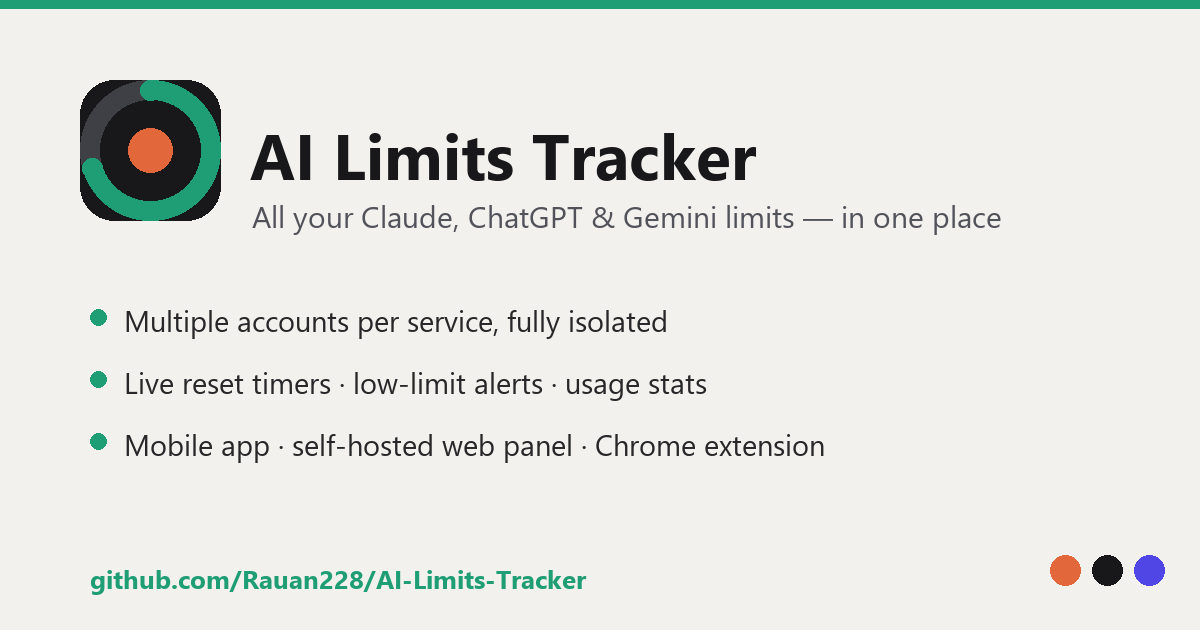
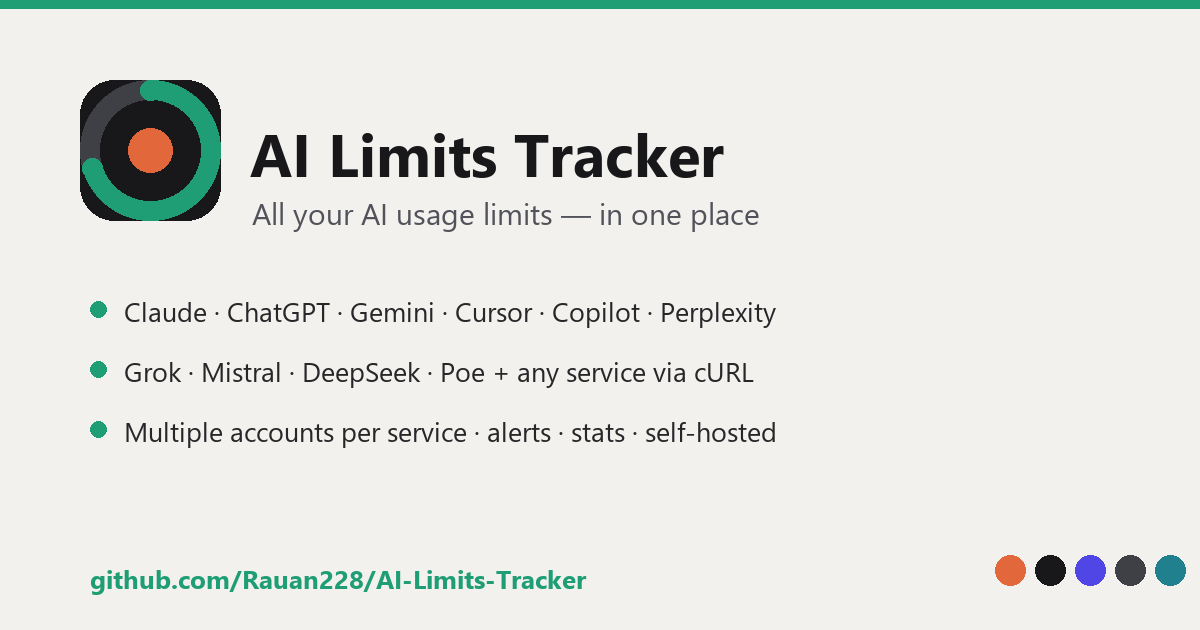
Landing: cover all 11 supported services + Custom
Update hero, provider pills, a new Supported services section, FAQ, meta
tags, JSON-LD, llms.txt and the OG image to reflect Cursor, Copilot,
Perplexity, Grok, Mistral, DeepSeek, Poe and the cURL-based Custom provider.
Adds SEO keywords for the new services.

diff --git a/landing/index.html b/landing/index.html
@@ -3,9 +3,9 @@
 <head>
 <meta charset="utf-8" />
 <meta name="viewport" content="width=device-width, initial-scale=1" />
-<title>AI Limits Tracker — Track Claude, ChatGPT & Gemini usage limits (multiple accounts)</title>
-<meta name="description" content="Open-source tracker for the usage limits of all your Claude, ChatGPT and Gemini accounts in one place — including several accounts of the same service. Live reset timers, low-limit alerts and usage stats. Mobile app, self-hosted web panel and Chrome extension. Private: tokens never leave your device." />
-<meta name="keywords" content="Claude usage limit tracker, track Claude limits, multiple Claude accounts, ChatGPT limit tracker, Claude rate limit, Claude Max 5 hour limit, ChatGPT Codex usage, Gemini usage limits, AI usage tracker, monitor AI subscription limits" />
+<title>AI Limits Tracker — track Claude, ChatGPT, Cursor, Copilot & 10+ AI usage limits (multiple accounts)</title>
+<meta name="description" content="Open-source tracker for the usage limits of all your AI accounts in one place — Claude, ChatGPT, Gemini, Cursor, GitHub Copilot, Perplexity, Grok, Mistral, DeepSeek, Poe, or any service via cURL — including several accounts of the same service. Live reset timers, low-limit alerts and usage stats. Mobile app, self-hosted web panel and Chrome extension. Private: tokens never leave your device." />
+<meta name="keywords" content="AI usage limit tracker, Claude usage limit tracker, track Claude limits, multiple Claude accounts, ChatGPT limit tracker, Cursor usage tracker, GitHub Copilot premium requests tracker, Perplexity Pro limit, Grok rate limit, Mistral usage, DeepSeek limit, Poe compute points, Claude Max 5 hour limit, ChatGPT Codex usage, Gemini usage limits, monitor AI subscription limits" />
 <link rel="canonical" href="https://rauan228.github.io/AI-Limits-Tracker/" />
 <meta name="robots" content="index, follow" />
 <meta name="author" content="Rauan" />
@@ -13,15 +13,15 @@
 
 <meta property="og:type" content="website" />
 <meta property="og:site_name" content="AI Limits Tracker" />
-<meta property="og:title" content="AI Limits Tracker — all your Claude, ChatGPT & Gemini limits in one place" />
-<meta property="og:description" content="Track the usage limits of several Claude, ChatGPT and Gemini accounts at once. Live reset timers, alerts and stats. Mobile app, self-hosted web panel and Chrome extension. Open source." />
+<meta property="og:title" content="AI Limits Tracker — all your AI usage limits in one place" />
+<meta property="og:description" content="Track the usage limits of Claude, ChatGPT, Gemini, Cursor, Copilot, Perplexity, Grok and more — several accounts per service at once. Live reset timers, alerts and stats. Mobile app, self-hosted web panel and Chrome extension. Open source." />
 <meta property="og:url" content="https://rauan228.github.io/AI-Limits-Tracker/" />
 <meta property="og:image" content="https://rauan228.github.io/AI-Limits-Tracker/og-image.png" />
 <meta property="og:image:width" content="1200" />
 <meta property="og:image:height" content="630" />
 <meta name="twitter:card" content="summary_large_image" />
-<meta name="twitter:title" content="AI Limits Tracker — Claude, ChatGPT & Gemini usage limits, multiple accounts" />
-<meta name="twitter:description" content="Open-source tracker for the limits of all your AI accounts in one place. Mobile app, web panel and Chrome extension." />
+<meta name="twitter:title" content="AI Limits Tracker — Claude, ChatGPT, Cursor, Copilot & more, multiple accounts" />
+<meta name="twitter:description" content="Open-source tracker for the limits of all your AI accounts in one place — 10+ services and any other via cURL. Mobile app, web panel and Chrome extension." />
 <meta name="twitter:image" content="https://rauan228.github.io/AI-Limits-Tracker/og-image.png" />
 
 <link rel="icon" href="favicon.png" type="image/png" />
@@ -37,7 +37,7 @@
   "name": "AI Limits Tracker",
   "operatingSystem": "iOS, Android, Web, Chrome",
   "applicationCategory": "DeveloperApplication",
-  "description": "Open-source tracker for the usage limits of all your Claude, ChatGPT and Gemini accounts in one place, including several accounts of the same service. Live reset timers, low-limit alerts and usage statistics.",
+  "description": "Open-source tracker for the usage limits of all your AI accounts in one place — Claude, ChatGPT, Gemini, Cursor, GitHub Copilot, Perplexity, Grok, Mistral, DeepSeek, Poe, or any service via cURL — including several accounts of the same service. Live reset timers, low-limit alerts and usage statistics.",
   "url": "https://rauan228.github.io/AI-Limits-Tracker/",
   "downloadUrl": "https://github.com/Rauan228/AI-Limits-Tracker",
   "softwareVersion": "1.0.0",
@@ -45,7 +45,8 @@
   "author": { "@type": "Person", "name": "Rauan", "url": "https://github.com/Rauan228" },
   "offers": { "@type": "Offer", "price": "0", "priceCurrency": "USD" },
   "featureList": [
-    "Track multiple Claude, ChatGPT and Gemini accounts at once",
+    "Track Claude, ChatGPT, Gemini, Cursor, GitHub Copilot, Perplexity, Grok, Mistral, DeepSeek and Poe",
+    "Add any other service via a pasted cURL (fields auto-detected)",
     "Several accounts of the same service, fully isolated",
     "Live limit reset countdown timers",
     "Low-limit, exhausted and re-login alerts",
@@ -59,8 +60,10 @@
   "@context": "https://schema.org",
   "@type": "FAQPage",
   "mainEntity": [
+    { "@type": "Question", "name": "Which AI services does it support?",
+      "acceptedAnswer": { "@type": "Answer", "text": "Claude, ChatGPT, Gemini, Cursor, GitHub Copilot, Perplexity, Grok, Mistral, DeepSeek and Poe out of the box, plus a Custom option that adds any other service: you paste a cURL of the request that returns your usage and the app auto-detects the percentage used and the reset time." } },
     { "@type": "Question", "name": "Can I track multiple Claude accounts at once?",
-      "acceptedAnswer": { "@type": "Answer", "text": "Yes. AI Limits Tracker is built for the multi-account case. You can add any number of Claude accounts (and ChatGPT and Gemini) and each one is fully isolated with its own credentials, token refresh and history, so two Claude accounts show two different numbers side by side." } },
+      "acceptedAnswer": { "@type": "Answer", "text": "Yes. AI Limits Tracker is built for the multi-account case. You can add any number of Claude accounts (and ChatGPT, Cursor, Copilot and the rest) and each one is fully isolated with its own credentials, token refresh and history, so two Claude accounts show two different numbers side by side." } },
     { "@type": "Question", "name": "How do I track my ChatGPT and Claude usage limits in one place?",
       "acceptedAnswer": { "@type": "Answer", "text": "Install AI Limits Tracker as a mobile app, a self-hosted web panel you can add to your phone's home screen, or a Chrome extension. It shows Claude's 5-hour and weekly windows, ChatGPT's Codex limits and Gemini's quotas on a single screen with live reset timers." } },
     { "@type": "Question", "name": "Is it safe? Where are my credentials stored?",
@@ -126,6 +129,12 @@
   .final h2{font-size:clamp(26px,4vw,38px);letter-spacing:-1px;margin-bottom:14px}
   .final p{color:#a1a1aa;margin-bottom:26px;max-width:520px;margin-left:auto;margin-right:auto}
   .final .btn{background:#fff;color:var(--ink)}
+  .svc-grid{display:grid;grid-template-columns:repeat(auto-fit,minmax(230px,1fr));gap:12px}
+  .svc{display:flex;align-items:center;gap:12px;background:var(--card);border:1px solid var(--border);border-radius:16px;padding:16px}
+  .svc-custom{border-style:dashed}
+  .svc-dot{width:38px;height:38px;border-radius:11px;flex:none;display:grid;place-items:center;color:#fff;font-weight:800;font-size:17px}
+  .svc b{display:block;font-size:15px}
+  .svc small{color:var(--muted);font-size:12.5px}
 </style>
 </head>
 <body>
@@ -133,6 +142,7 @@
   <a class="brand" href="/AI-Limits-Tracker/"><img src="favicon.png" alt="AI Limits Tracker logo" /> AI Limits</a>
   <nav class="nav-links">
     <a href="#features">Features</a>
+    <a href="#services">Services</a>
     <a href="#how">How it works</a>
     <a href="#faq">FAQ</a>
     <a class="btn" href="https://github.com/Rauan228/AI-Limits-Tracker">★ GitHub</a>
@@ -142,8 +152,8 @@
 <main>
 <section class="hero wrap">
   <span class="pill"><i></i> Open source · MIT · self-hosted</span>
-  <h1>All your <span class="accent">Claude, ChatGPT &amp; Gemini</span><br />limits in one place</h1>
-  <p class="lead">Track the usage limits of every AI account you own — including <strong>several accounts of the same service</strong> — with live reset timers, low-limit alerts and real usage stats. Your tokens never leave your own device.</p>
+  <h1>All your <span class="accent">AI usage limits</span><br />in one place</h1>
+  <p class="lead">Track the limits of every AI account you own — Claude, ChatGPT, Cursor, Copilot and more, <strong>including several accounts of the same service</strong> — with live reset timers, low-limit alerts and real usage stats. Your tokens never leave your own device.</p>
   <div class="cta">
     <a class="btn" href="https://github.com/Rauan228/AI-Limits-Tracker">★ Star on GitHub</a>
     <a class="btn ghost" href="#how">Self-host in 2 minutes</a>
@@ -152,6 +162,11 @@
     <span class="prov"><b style="background:#e2683c"></b> Claude</span>
     <span class="prov"><b style="background:#18181b"></b> ChatGPT</span>
     <span class="prov"><b style="background:#4f46e5"></b> Gemini</span>
+    <span class="prov"><b style="background:#3f3f46"></b> Cursor</span>
+    <span class="prov"><b style="background:#1f6feb"></b> Copilot</span>
+    <span class="prov"><b style="background:#20808d"></b> Perplexity</span>
+    <span class="prov"><b style="background:#fa520f"></b> Mistral</span>
+    <span class="prov"><b style="background:#8b5cf6"></b> + any via cURL</span>
   </div>
 </section>
 
@@ -159,12 +174,30 @@
   <h2 class="sec-title">Built for people with more than one AI account</h2>
   <p class="sec-sub">Every other tracker assumes one account per service. This one doesn't — two Claude accounts, two ChatGPT accounts, all on one screen.</p>
   <div class="grid">
-    <div class="card"><div class="ic">👥</div><h3>Multiple accounts, isolated</h3><p>Add any number of Claude, ChatGPT or Gemini accounts. Each keeps its own credentials, token refresh and history — no mixing, no logging in and out.</p></div>
+    <div class="card"><div class="ic">👥</div><h3>Multiple accounts, isolated</h3><p>Add any number of accounts across any service. Each keeps its own credentials, token refresh and history — no mixing, no logging in and out.</p></div>
     <div class="card"><div class="ic">⏱</div><h3>Live reset timers</h3><p>See exactly when each 5-hour and weekly window resets, counting down in real time. Never get surprised by a wall mid-task again.</p></div>
     <div class="card"><div class="ic">📊</div><h3>Honest usage stats</h3><p>Day streaks, limit hits, time in the red zone, burn-rate forecast and busiest hours — all from real measurements. No invented message counts.</p></div>
     <div class="card"><div class="ic">🔔</div><h3>Low-limit alerts</h3><p>Get notified at 20%, 10% and 0% remaining, on restore, and when a session needs re-login. Optional Telegram push from the server.</p></div>
     <div class="card"><div class="ic">🔒</div><h3>Private by design</h3><p>Tokens live only in your device's Keychain/Keystore or your own encrypted server. Requests go straight to the AI providers — no third-party backend.</p></div>
     <div class="card"><div class="ic">📱</div><h3>Install anywhere</h3><p>A mobile app, a self-hosted web panel you add to your home screen like a native app, and a Chrome extension for a glance from the toolbar.</p></div>
+  </div>
+</section>
+
+<section id="services" class="wrap">
+  <h2 class="sec-title">Supported services</h2>
+  <p class="sec-sub">Ten services out of the box — and a Custom option that adds any other by pasting a cURL, with the usage fields detected automatically.</p>
+  <div class="svc-grid">
+    <div class="svc"><span class="svc-dot" style="background:#e2683c">C</span><div><b>Claude</b><small>5h · weekly · Opus/Sonnet · spend</small></div></div>
+    <div class="svc"><span class="svc-dot" style="background:#18181b">C</span><div><b>ChatGPT</b><small>Codex 5h &amp; weekly · credits</small></div></div>
+    <div class="svc"><span class="svc-dot" style="background:#4f46e5">G</span><div><b>Gemini</b><small>session &amp; weekly</small></div></div>
+    <div class="svc"><span class="svc-dot" style="background:#3f3f46">C</span><div><b>Cursor</b><small>premium (fast) requests</small></div></div>
+    <div class="svc"><span class="svc-dot" style="background:#1f6feb">C</span><div><b>GitHub Copilot</b><small>premium requests / month</small></div></div>
+    <div class="svc"><span class="svc-dot" style="background:#20808d">P</span><div><b>Perplexity</b><small>Pro searches</small></div></div>
+    <div class="svc"><span class="svc-dot" style="background:#27272a">G</span><div><b>Grok</b><small>request window</small></div></div>
+    <div class="svc"><span class="svc-dot" style="background:#fa520f">M</span><div><b>Mistral</b><small>Le Chat</small></div></div>
+    <div class="svc"><span class="svc-dot" style="background:#4d6bfe">D</span><div><b>DeepSeek</b><small>account limits</small></div></div>
+    <div class="svc"><span class="svc-dot" style="background:#5d3fd3">P</span><div><b>Poe</b><small>compute points</small></div></div>
+    <div class="svc svc-custom"><span class="svc-dot" style="background:#8b5cf6">+</span><div><b>Any other service</b><small>paste a cURL — fields auto-detected</small></div></div>
   </div>
 </section>
 
@@ -196,8 +229,9 @@ WEB_DIR=web/dist DATA_DIR=./data node server/dist/server.mjs
 <section id="faq" class="wrap">
   <h2 class="sec-title">Frequently asked questions</h2>
   <div class="faq">
-    <details open><summary>Can I track multiple Claude accounts at once?</summary><p>Yes — that's the whole point. Add any number of Claude accounts (and ChatGPT and Gemini). Each is fully isolated with its own credentials, token refresh and history, so two Claude accounts show two different numbers side by side.</p></details>
-    <details><summary>How do I see my Claude and ChatGPT limits in one place?</summary><p>Install the mobile app, the self-hosted web panel (which you can add to your phone's home screen), or the Chrome extension. It shows Claude's 5-hour and weekly windows, ChatGPT's Codex limits and Gemini's quotas on a single screen with live reset timers.</p></details>
+    <details open><summary>Which AI services does it support?</summary><p>Claude, ChatGPT, Gemini, Cursor, GitHub Copilot, Perplexity, Grok, Mistral, DeepSeek and Poe out of the box — plus a Custom option that adds any other service: paste a cURL of the request that returns your usage and the app auto-detects the percentage used and the reset time.</p></details>
+    <details><summary>Can I track multiple Claude (or Cursor, or ChatGPT) accounts at once?</summary><p>Yes — that's the whole point. Add any number of accounts across any service. Each is fully isolated with its own credentials, token refresh and history, so two accounts of the same service show two different numbers side by side.</p></details>
+    <details><summary>How do I see all my AI limits in one place?</summary><p>Install the mobile app, the self-hosted web panel (which you can add to your phone's home screen), or the Chrome extension. It shows each service's windows — Claude's 5-hour and weekly, ChatGPT's Codex limits, Cursor's premium requests, and so on — on a single screen with live reset timers.</p></details>
     <details><summary>Is it safe? Where are my credentials stored?</summary><p>They never leave your own device or server. On mobile they're in the iOS Keychain / Android Keystore; on the server they're AES-256-GCM encrypted. Requests go straight to Anthropic, OpenAI and Google — there's no third-party backend. The tool only reads your usage, it never generates anything, so it adds no load to your quota.</p></details>
     <details><summary>Is it really free and open source?</summary><p>Yes. MIT-licensed, free, and the full source is on GitHub. You self-host it yourself and own all your data.</p></details>
     <details><summary>Does it show how many messages or tokens I've used?</summary><p>No AI subscription exposes a message or token counter, so the app never invents one. It reads the percentage of each rate-limit window the service itself reports, and derives streaks, forecasts and charts from how that percentage changes over time.</p></details>
@@ -212,7 +246,7 @@ WEB_DIR=web/dist DATA_DIR=./data node server/dist/server.mjs
 </main>
 
 <footer>
-  <p>AI Limits Tracker — open-source usage-limit tracker for Claude, ChatGPT and Gemini.<br />
+  <p>AI Limits Tracker — open-source usage-limit tracker for Claude, ChatGPT, Gemini, Cursor, Copilot, Perplexity, Grok and more.<br />
   MIT © <a href="https://github.com/Rauan228">Rauan</a> · <a href="https://github.com/Rauan228/AI-Limits-Tracker">Source on GitHub</a></p>
 </footer>
 </body>
